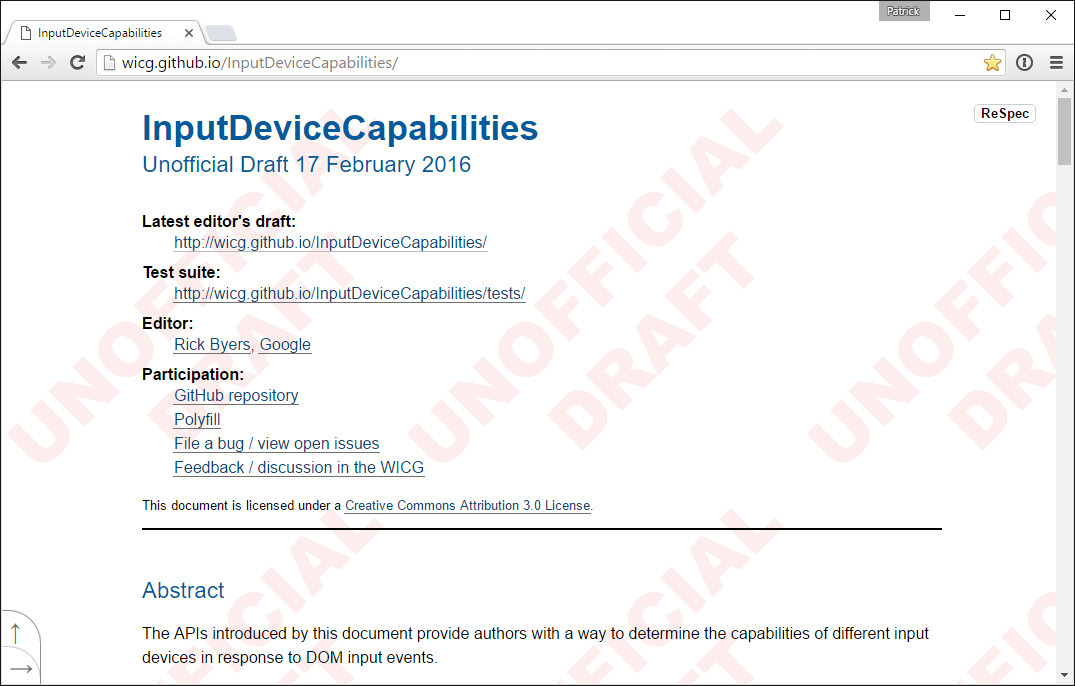
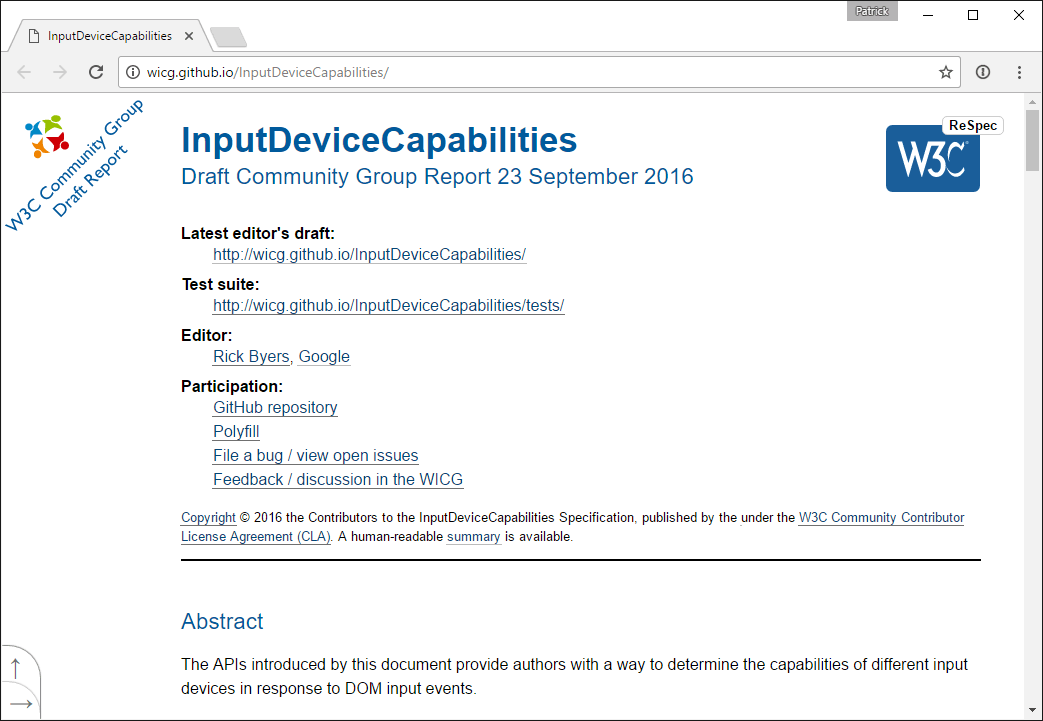
Update WICG input device capabilities

diff --git a/index.html b/index.html
@@ -3627,7 +3627,7 @@ var element = document.getElementById('test_el');
 
 <section class="slide"><div>
     <img src="pictures/sites/wicg-github-io-inputdevicecapabilities.png" alt="">
-    <p><a target="_blank" href="http://wicg.github.io/InputDeviceCapabilities/">Input Device Capabilities (Unofficial Draft)</a></p>
+    <p><a target="_blank" href="http://wicg.github.io/InputDeviceCapabilities/">Input Device Capabilities (Draft Community Group Report)</a></p>
 </div></section>
 
 <!-- -->
